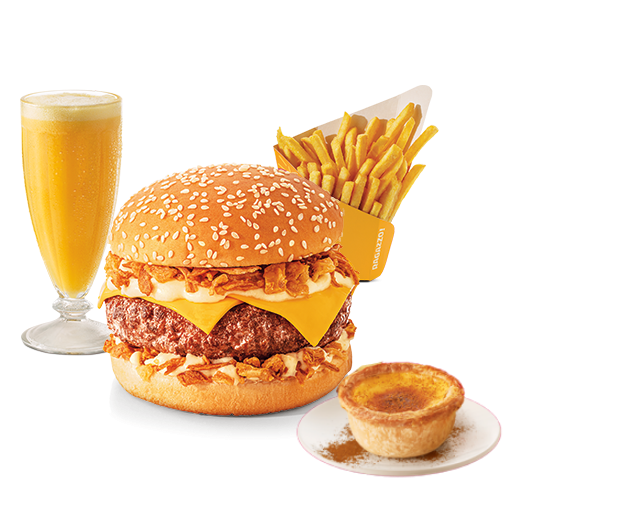
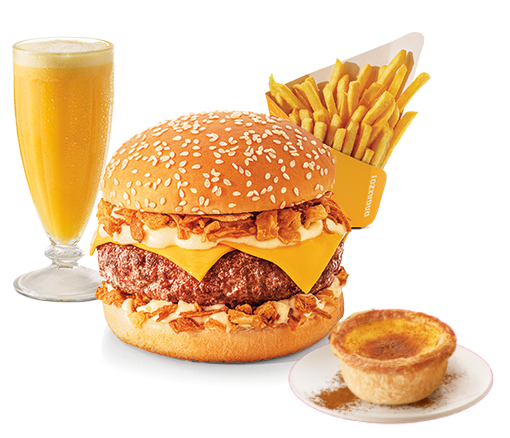
Arrumando margem

diff --git a/css/styles.css b/css/styles.css
@@ -6,7 +6,7 @@
   vertical-align:baseline;
   list-style:none;
   border:0;        
-  box-sizing: border-box;
+  box-sizing: border-box;  
 }
 body{
   margin: 0;
@@ -205,10 +205,10 @@ img .lobo{
 }
 #combosab img{
   position: absolute;
-  left: 900px;
-  top: 120px;
-  width: 420px;
-  height: 320px;
+  left: 880px;
+  top: 155px;
+  width: 360px;
+  height: 260px;
 }
 #combosab h3{
   position: absolute;  
@@ -269,10 +269,10 @@ img .lobo{
 }
 #batata img{
   position: absolute;
-  left: 850px;
-  top: 550px;
-  width: 490px;
-  height: 270px;
+  left: 860px;
+  top: 580px;
+  width: 420px;
+  height: 200px;
 }
 #batata h3{
   position: absolute;
